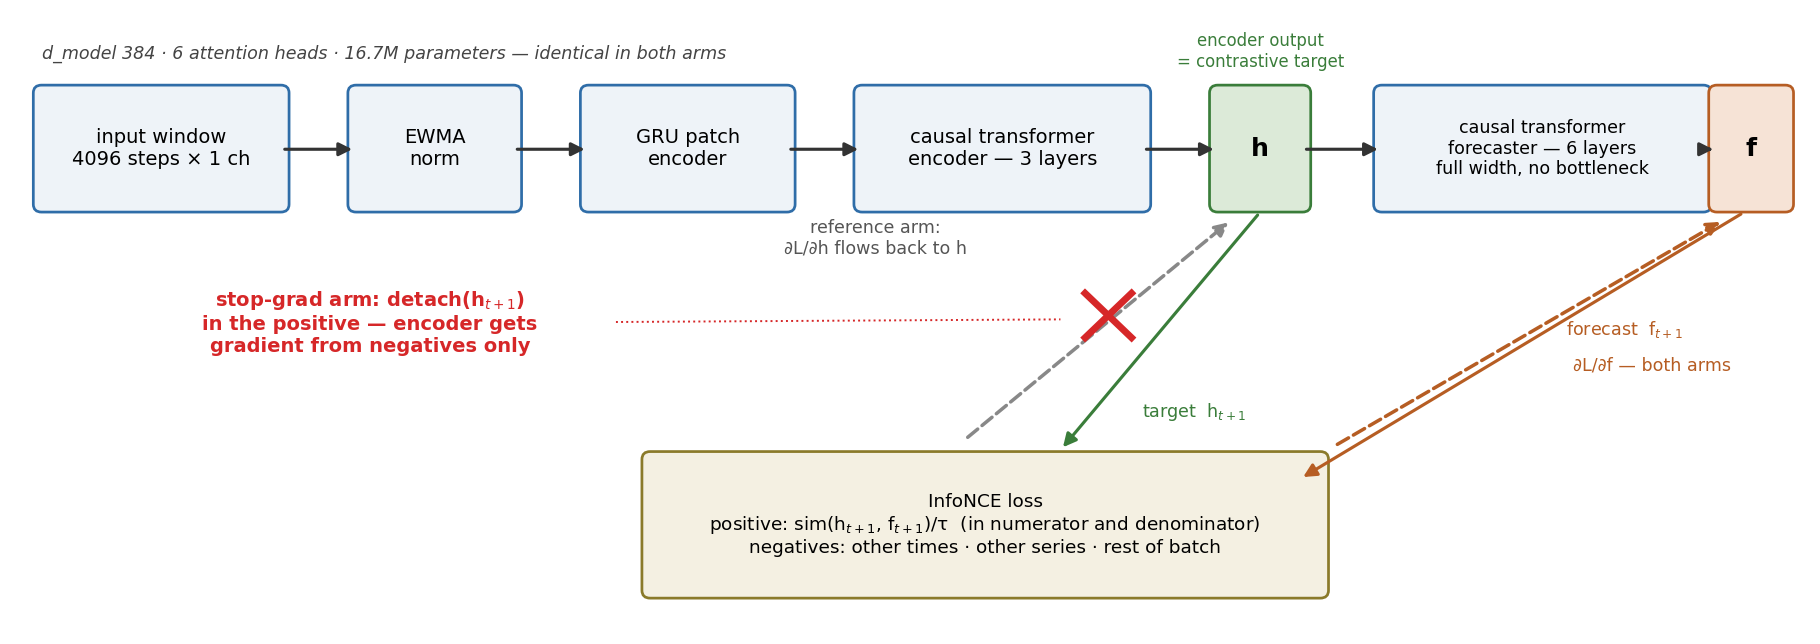
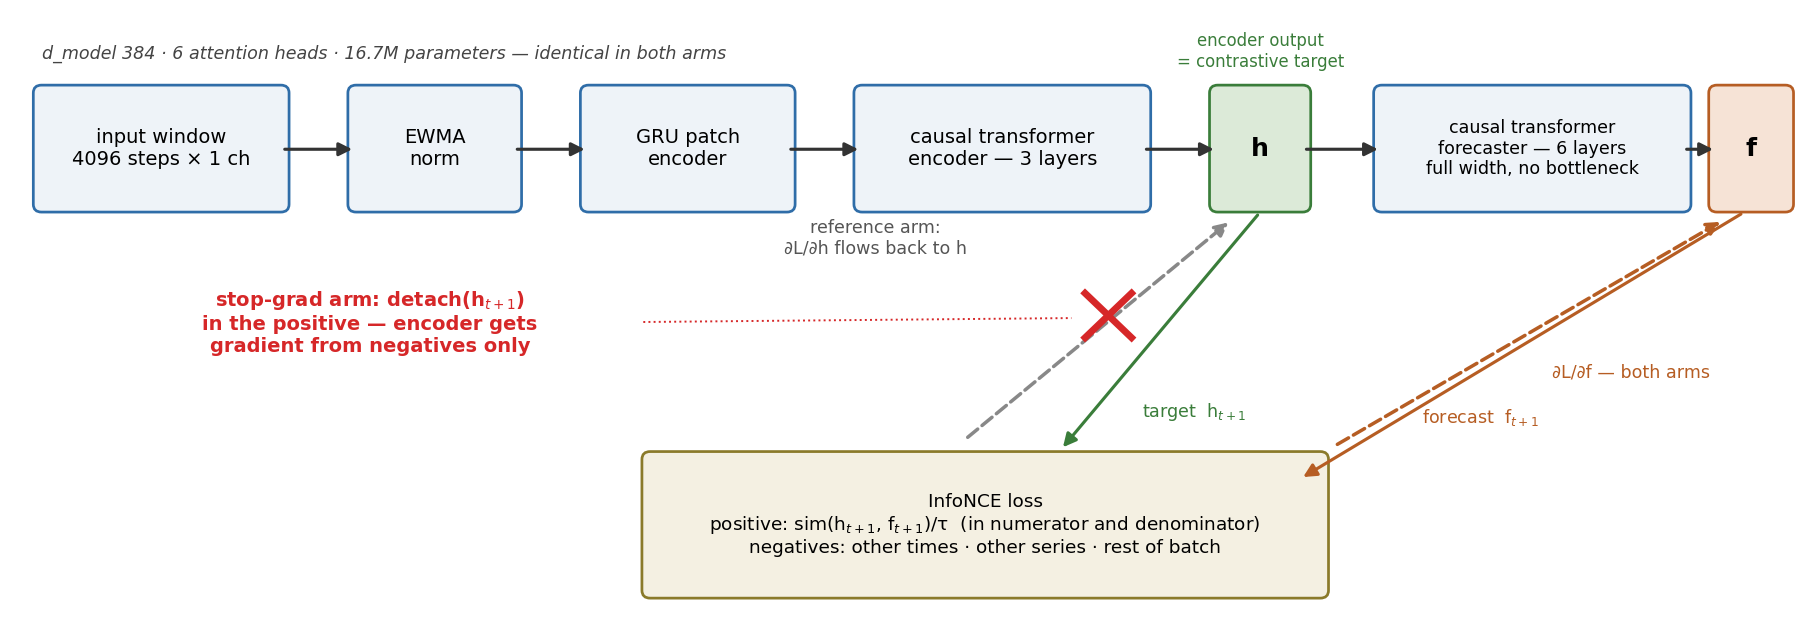
report(#339): declarative title, one-line backbone spec, humanized prose, schematic polish
- Title is now a single declarative sentence (paper style).
- Question paragraph states the config in one sentence: GRU patch
  embedding, 3L causal encoder, 6L full-width forecaster, no bottleneck.
- Reword 'the cut...' constructions; Result paragraph carries no numbers
  duplicated from the board.
- Schematic: forecast/dL-df labels moved off the f box, even arrow gaps.

diff --git a/experiments/2026-06-10_stopgrad_positive/scripts/plot_arch_schematic.py b/experiments/2026-06-10_stopgrad_positive/scripts/plot_arch_schematic.py
@@ -30,9 +30,9 @@ box(2.45, Y, 1.15, 0.85, "EWMA\nnorm")
 box(4.15, Y, 1.45, 0.85, "GRU patch\nencoder")
 box(6.15, Y, 2.05, 0.85, "causal transformer\nencoder — 3 layers")
 box(8.75, Y, 0.62, 0.85, "h", fc="#dcead8", ec="#3a7d3a", fs=13, bold=True)
-box(9.95, Y, 2.35, 0.85, "causal transformer\nforecaster — 6 layers\nfull width, no bottleneck", fs=9)
+box(9.95, Y, 2.2, 0.85, "causal transformer\nforecaster — 6 layers\nfull width, no bottleneck", fs=9)
 box(12.4, Y, 0.5, 0.85, "f", fc="#f6e3d6", ec="#b65d23", fs=13, bold=True)
-for x0, x1 in [(1.9, 2.45), (3.6, 4.15), (5.6, 6.15), (8.2, 8.75), (9.37, 9.95), (12.3, 12.4)]:
+for x0, x1 in [(1.9, 2.45), (3.6, 4.15), (5.6, 6.15), (8.2, 8.75), (9.37, 9.95), (12.15, 12.4)]:
     arrow((x0, Y + 0.42), (x1, Y + 0.42))
 ax.text(8.75 + 0.31, Y + 1.05, "encoder output\n= contrastive target", ha="center",
         fontsize=8.5, color="#3a7d3a")
@@ -46,18 +46,18 @@ box(4.6, 0.25, 4.9, 1.0,
 
 # forward arrows into the loss
 arrow((9.06, Y - 0.06), (7.6, 1.32), color="#3a7d3a", label="target  h$_{t+1}$", lab_dxy=(0.25, -0.62))
-arrow((12.6, Y - 0.06), (9.35, 1.1), color="#b65d23", label="forecast  f$_{t+1}$", lab_dxy=(0.75, 0.12))
+arrow((12.6, Y - 0.06), (9.35, 1.1), color="#b65d23", label="forecast  f$_{t+1}$", lab_dxy=(-0.3, -0.55))
 
 # gradient arrows out of the loss
 arrow((9.6, 1.35), (12.45, Y - 0.12), color="#b65d23", ls="--", lw=1.8,
-      label="∂L/∂f — both arms", lab_dxy=(0.9, -0.25))
+      label="∂L/∂f — both arms", lab_dxy=(0.75, -0.3))
 arrow((6.9, 1.4), (8.85, Y - 0.12), color="#888888", ls="--", lw=1.8)
 ax.text(6.25, 2.82, "reference arm:\n∂L/∂h flows back to h", fontsize=9, color="#555555",
         ha="center")
 # the stop-grad cut
 ax.plot([7.78, 8.12], [2.18, 2.52], color="#d62728", lw=3.5)
 ax.plot([7.78, 8.12], [2.52, 2.18], color="#d62728", lw=3.5)
-ax.plot([4.35, 7.6], [2.3, 2.32], color="#d62728", lw=1.0, ls=":")
+ax.plot([4.55, 7.68], [2.3, 2.33], color="#d62728", lw=1.0, ls=":")
 ax.text(2.55, 2.3, "stop-grad arm: detach(h$_{t+1}$)\nin the positive — encoder gets\ngradient from negatives only",
         fontsize=10, color="#d62728", ha="center", va="center", fontweight="bold")
 

diff --git a/experiments/2026-06-10_stopgrad_positive/stopgrad_positive.md b/experiments/2026-06-10_stopgrad_positive/stopgrad_positive.md
@@ -72,8 +72,8 @@ across time. The single change produces three clear differences:
 - **Discrimination is barely affected.** Ranking the positive against the negatives, the
   stop-grad arm scores AUC 0.998 with the positive ranked first (Top-1) ~92% of the time late
   in training, vs the reference's 1.000/1.000; cross-series cosine 0.022 vs 0.003,
-  near-orthogonal in both. The cut changes how
-  far the positive pair is pulled together, not whether pairs are told apart.
+  near-orthogonal in both. The stop-grad changes how far the positive pair is pulled together,
+  not whether the model can tell pairs apart.
 
 Both arms subtract the same floor constant, and the stop-grad leaves the forward loss value
 bit-identical (unit-tested), so the loss curves are directly comparable.
@@ -91,10 +91,9 @@ noise.
 
 ## What we learned
 
-- **Training does not break, and the higher pretext loss is not worse transfer.** The stop-grad
-  arm's contrastive loss stays about 5.5× higher than the reference's, yet it transfers better.
-  A lower contrastive loss therefore does not imply better transfer: the higher-loss arm wins
-  every matched cell, reliably so at the best-loss checkpoint.
+- **Training does not break.** The stop-grad arm's contrastive loss stays about 5.5× higher
+  than the reference's, yet it transfers better — it wins every matched cell, reliably so at
+  the best-loss checkpoint. A lower contrastive loss does not imply better transfer.
 - **The transfer peak arrives at about half the budget**: the reference needs all 12.5k steps
   for its best downstream score; the stop-grad arm matches that level by ~6.6k, and its two
   measured checkpoints differ by less than task-set noise.
